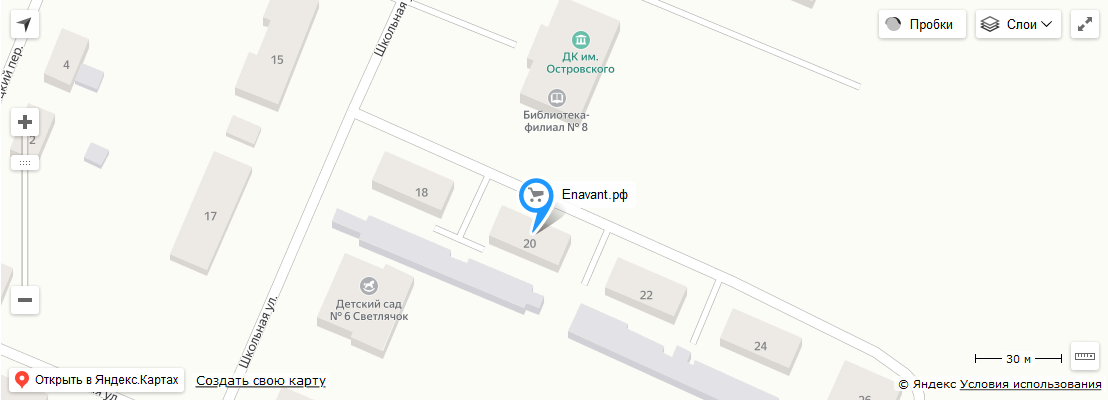
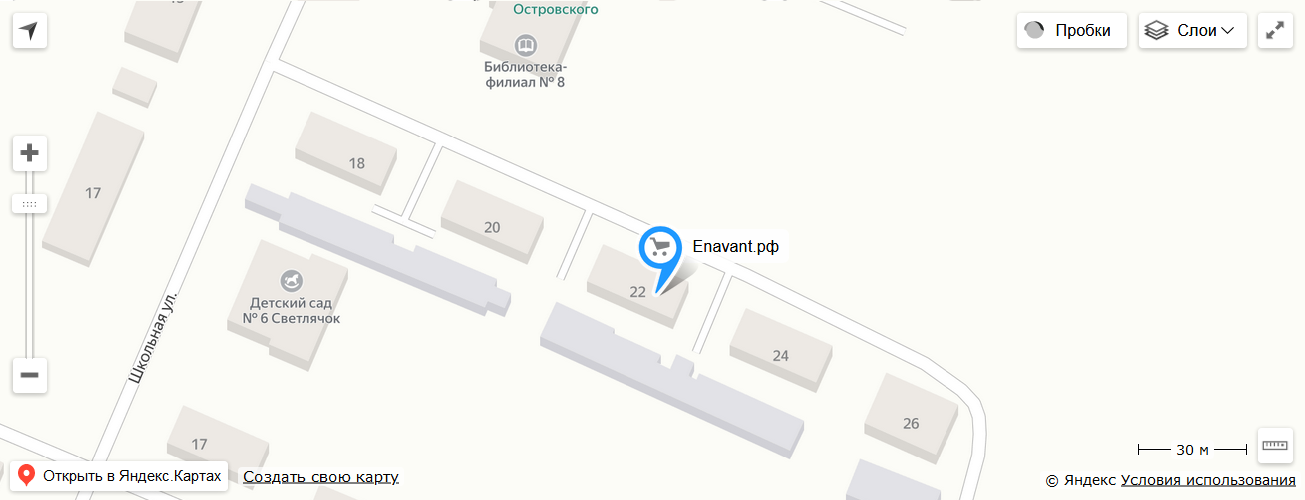
map

diff --git a/contact.html b/contact.html
@@ -55,7 +55,7 @@
       <p class="lead"><b>Контактный телефон:</b> <a href="tel:89531823212">89531823212</a></p>
       <div class="pow">
         <div class="col contact-map p-0">
-          <!-- <script type="text/javascript" charset="utf-8" async src="https://api-maps.yandex.ru/services/constructor/1.0/js/?um=constructor%3A2061090349871d494eccabb54c93ead53a2abb9c16415c1c3a5d65ba2621d210&amp;width=100%25&amp;height=400&amp;lang=ru_RU&amp;scroll=true"></script> -->
+          <script type="text/javascript" charset="utf-8" async src="https://api-maps.yandex.ru/services/constructor/1.0/js/?um=constructor%3A2061090349871d494eccabb54c93ead53a2abb9c16415c1c3a5d65ba2621d210&amp;width=100%25&amp;height=400&amp;lang=ru_RU&amp;scroll=true"></script>
         </div>
       </div>
     </div>
